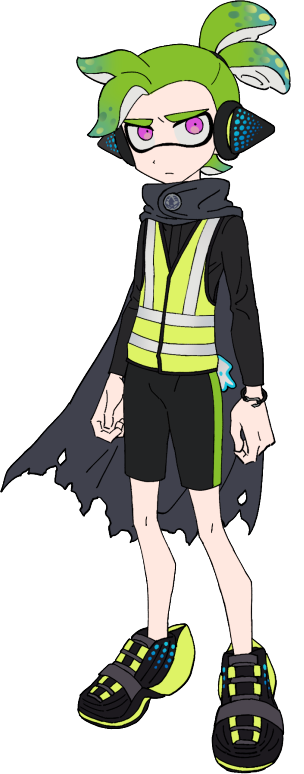
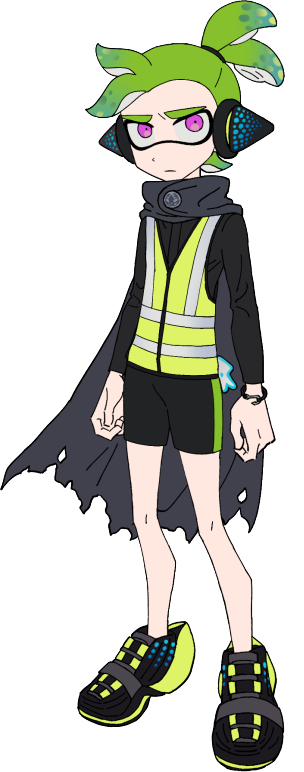
art change, increase preload screen to hide weird things

diff --git a/scripts/script.js b/scripts/script.js
@@ -701,5 +701,5 @@ $(document).ready(function () {
         setupLang();
     })
 
-    setTimeout(() => $(".se-pre-con").fadeOut("slow"), 200);
+    setTimeout(() => $(".se-pre-con").fadeOut("slow"), 300);
 });
